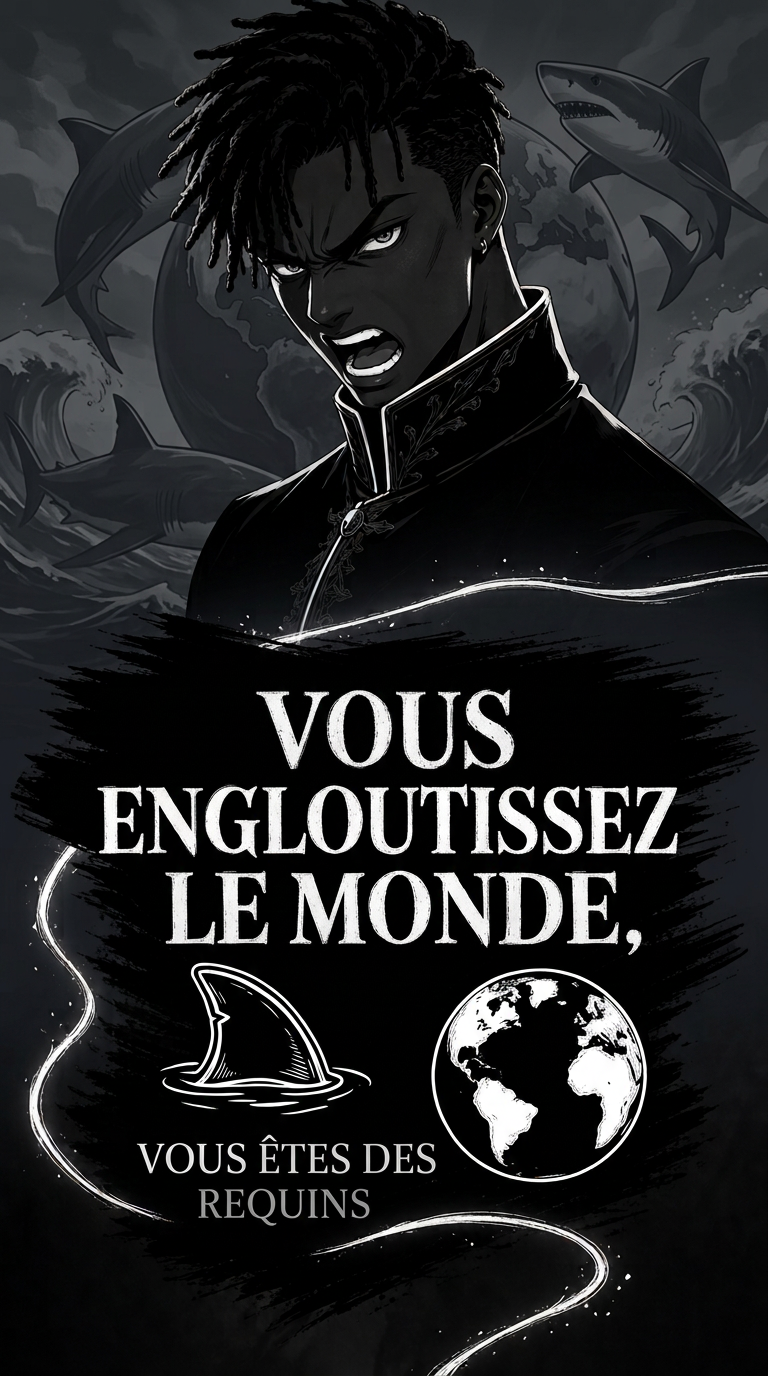
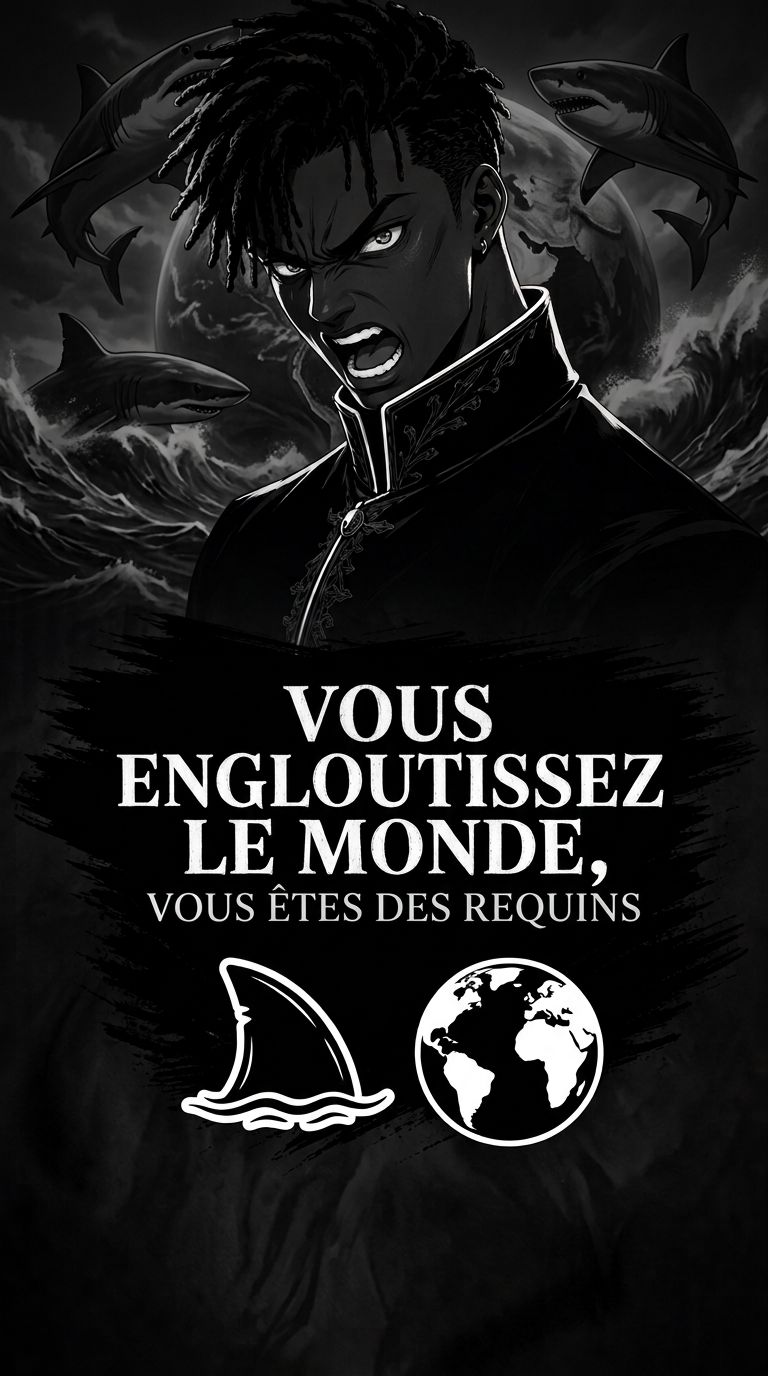
Goinfres (Dsky) : salve 2 en style animé N&B (scene-06 v2 + scene-11..19, 19/36 plans, 29/47 vers) + CONTROLES-salve2

diff --git a/productions/goinfres/build_map.py b/productions/goinfres/build_map.py
@@ -57,26 +57,26 @@ PLAN_MAP = {
     3:  ("fonds/scene-01-ancre.png", False, "Refrain 1/4 (ANCRE) — salle de banquet atténuée N&B, regard d'indignation — contrôlé OK"),
     4:  ("fonds/scene-04.png", False, "Refrain 2/4 — chambre forte de lingots atténuée N&B, regard accusateur — contrôlé OK"),
     5:  ("fonds/scene-05.png", False, "Refrain 3/4 — ruelle atténuée N&B, familles aux bols vides, main sur le cœur — contrôlé OK"),
-    6:  ("fonds/scene-06.png", False, "Refrain 4/4 — océan orageux & requins atténués N&B, cri d'alerte — orthographe OK (ligne basse à remonter en Salve 2)"),
+    6:  ("fonds/scene-06.png", False, "Refrain 4/4 — océan orageux & requins atténués N&B, cri d'alerte — contrôlé OK (v2)"),
     7:  ("fonds/scene-02.png", True,  "Reprise signature producteur — contrôlé OK"),
     8:  ("fonds/scene-07.png", False, "Couplet 1 — atelier atténué N&B, travailleurs serrant la ceinture, bras croisés — contrôlé OK"),
     9:  ("fonds/scene-08.png", False, "Couplet 1 — balcon des goinfres atténué N&B, main levée en refus — contrôlé OK"),
     10: ("fonds/scene-09.png", False, "Couplet 1 — grande salle & table-monde atténuée N&B, regard défiant — contrôlé OK"),
     11: ("fonds/scene-10.png", False, "Couplet 1 — arches de pierre atténuées N&B, peuple recueillant les miettes, poing levé — contrôlé OK"),
-    12: ("fonds/scene-11.png", False, "Couplet 1 — pain des enfants arraché, regard de révolte protectrice (Salve 2)"),
-    13: ("fonds/scene-12.png", False, "Couplet 1 — coupes des vivants dans l'ombre, expression d'accusation (Salve 2)"),
-    14: ("fonds/scene-13.png", False, "Couplet 1 — la grande table qui se fissure d'éclairs blancs (Salve 2)"),
-    15: ("fonds/scene-14.png", False, "Couplet 1 — balance de justice en lumière blanche, regard prophétique (Salve 2)"),
-    16: ("fonds/scene-15.png", False, "Pré-refrain 1/4 — poches débordant de billets et pièces, regard perçant (Salve 2)"),
-    17: ("fonds/scene-16.png", False, "Pré-refrain 2/4 — statues aux poitrines creuses dans la brume, tristesse grave (Salve 2)"),
-    18: ("fonds/scene-17.png", False, "Pré-refrain 3/4 — chaîne fraternelle de bras unis dans l'ombre claire (Salve 2)"),
-    19: ("fonds/scene-18.png", False, "Pré-refrain 4/4 — tourbillon de la folie des goinfres en arrière-plan atténué (Salve 2)"),
+    12: ("fonds/scene-11.png", False, "Couplet 1 — pain des enfants arraché, regard de révolte protectrice — contrôlé OK"),
+    13: ("fonds/scene-12.png", False, "Couplet 1 — coupes des vivants dans l'ombre, expression d'accusation — contrôlé OK"),
+    14: ("fonds/scene-13.png", False, "Couplet 1 — la grande table qui se fissure d'éclairs blancs — contrôlé OK"),
+    15: ("fonds/scene-14.png", False, "Couplet 1 — balance de justice en lumière blanche, regard prophétique — contrôlé OK"),
+    16: ("fonds/scene-15.png", False, "Pré-refrain 1/4 — poches débordant de billets et pièces (à régénérer Salve 3 : mot parasite ONLY:)"),
+    17: ("fonds/scene-16.png", False, "Pré-refrain 2/4 — statues aux poitrines creuses dans la brume, tristesse grave — contrôlé OK"),
+    18: ("fonds/scene-17.png", False, "Pré-refrain 3/4 — chaîne fraternelle de bras unis dans l'ombre claire — contrôlé OK"),
+    19: ("fonds/scene-18.png", False, "Pré-refrain 4/4 — tourbillon de la folie des goinfres en arrière-plan atténué — contrôlé OK"),
     20: ("fonds/scene-01-ancre.png", True, "Reprise refrain 1/4 (ANCRE)"),
     21: ("fonds/scene-04.png", True,  "Reprise refrain 2/4"),
     22: ("fonds/scene-05.png", True,  "Reprise refrain 3/4"),
     23: ("fonds/scene-06.png", True,  "Reprise refrain 4/4"),
     24: ("fonds/scene-02.png", True,  "Reprise signature producteur"),
-    25: ("fonds/scene-19.png", False, "Couplet 2 — trône de pouvoir et liasses en clair-obscur N&B (Salve 2)"),
+    25: ("fonds/scene-19.png", False, "Couplet 2 — trône de pouvoir et liasses en clair-obscur N&B — contrôlé OK"),
     26: ("fonds/scene-20.png", False, "Couplet 2 — miroir brisé révélant l'âme perdue en encre noire et blanche (Salve 3)"),
     27: ("fonds/scene-21.png", False, "Couplet 2 — assiette géante voilant l'horizon atténué (Salve 3)"),
     28: ("fonds/scene-22.png", False, "Couplet 2 — mains dignes grattant la terre sombre pour une miette (Salve 3)"),
@@ -153,7 +153,7 @@ doc = {
     "plans_distinctes": len(distinct_imgs),
     "plans_disponibles": len(dispo_imgs),
     "plans_manquantes": manq_imgs,
-    "qc_a_regenerer": ["fonds/scene-06.png (remonter VOUS ÊTES DES REQUINS au-dessus de y=1574)"],
+    "qc_a_regenerer": ["fonds/scene-15.png (retirer mot parasite ONLY: en Salve 3)"],
     "fenetres_clochettes": fenetres,
     "carte_accueil": [0.0, rows[0]["t"]],
     "carte_finale": [SONG_END, round(SONG_END + 5.0, 2)],
@@ -176,7 +176,7 @@ L = [
     f"- **Mode verrouillé** : **PEINT** en **STUDIO ANIME SEINEN — NOIR & BLANC avec décors atténués et expressions variées**.",
     f"- **Plans distincts prévus** : **{doc['plans_distinctes']}** (dont 5 variantes d'aube N&B dédiées pour le refrain final §9).",
     f"- **Plans présents sur disque (`os.path.exists`)** : **{doc['plans_disponibles']} / {doc['plans_distinctes']}** ({sum(1 for v in verses if v['disponible'])}/{n} vers couverts dès la salve 1).",
-    f"- **Contrôle QC salve 1** : **10 / 10 plans sans aucune faute d'orthographe** (`scene-06.png` noté pour remonter la 2e ligne `VOUS ÊTES DES REQUINS` au-dessus de `y = 1574` en Salve 2).",
+    f"- **Contrôle QC salves 1 & 2** : **18 / 19 plans validés au zoom 1:1 sans aucune faute** (`scene-06.png` v2 corrigé ; `scene-15.png` consigné pour régénération en tête de Salve 3 afin de retirer le mot parasite `ONLY:`).",
     "",
     "| # | t (s) | fin (s) | aff. (s) | vers | plan | dispo | reprise | note |",
     "|---|---:|---:|---:|---|---|:---:|:---:|---|",

diff --git a/productions/goinfres/CARTE-VERS.md b/productions/goinfres/CARTE-VERS.md
@@ -4,8 +4,8 @@ Générée automatiquement depuis `verses_map.json` (§10.4) — **47 vers** de 
 
 - **Mode verrouillé** : **PEINT** en **STUDIO ANIME SEINEN — NOIR & BLANC avec décors atténués et expressions variées**.
 - **Plans distincts prévus** : **36** (dont 5 variantes d'aube N&B dédiées pour le refrain final §9).
-- **Plans présents sur disque (`os.path.exists`)** : **10 / 36** (16/47 vers couverts dès la salve 1).
-- **Contrôle QC salve 1** : **10 / 10 plans sans aucune faute d'orthographe** (`scene-06.png` noté pour remonter la 2e ligne `VOUS ÊTES DES REQUINS` au-dessus de `y = 1574` en Salve 2).
+- **Plans présents sur disque (`os.path.exists`)** : **19 / 36** (29/47 vers couverts dès la salve 1).
+- **Contrôle QC salves 1 & 2** : **18 / 19 plans validés au zoom 1:1 sans aucune faute** (`scene-06.png` v2 corrigé ; `scene-15.png` consigné pour régénération en tête de Salve 3 afin de retirer le mot parasite `ONLY:`).
 
 | # | t (s) | fin (s) | aff. (s) | vers | plan | dispo | reprise | note |
 |---|---:|---:|---:|---|---|:---:|:---:|---|
@@ -14,26 +14,26 @@ Générée automatiquement depuis `verses_map.json` (§10.4) — **47 vers** de 
 | 3 | 23.41 | 26.73 | 2.20 | Goinfres, goinfres, vous mangez trop | `fonds/scene-01-ancre.png` | oui | — | Refrain 1/4 (ANCRE) — salle de banquet atténuée N&B, regard d'indignation — contrôlé OK |
 | 4 | 26.73 | 29.88 | 2.20 | Goinfres, goinfres, vous avez trop d'or | `fonds/scene-04.png` | oui | — | Refrain 2/4 — chambre forte de lingots atténuée N&B, regard accusateur — contrôlé OK |
 | 5 | 29.88 | 32.23 | 2.20 | Pendant que les autres crèvent de faim | `fonds/scene-05.png` | oui | — | Refrain 3/4 — ruelle atténuée N&B, familles aux bols vides, main sur le cœur — contrôlé OK |
-| 6 | 32.23 | 37.52 | 2.40 | Vous engloutissez le monde, vous êtes des requins | `fonds/scene-06.png` | oui | — | Refrain 4/4 — océan orageux & requins atténués N&B, cri d'alerte — orthographe OK (ligne basse à remonter en Salve 2) |
+| 6 | 32.23 | 37.52 | 2.40 | Vous engloutissez le monde, vous êtes des requins | `fonds/scene-06.png` | oui | — | Refrain 4/4 — océan orageux & requins atténués N&B, cri d'alerte — contrôlé OK (v2) |
 | 7 | 37.52 | 50.26 | 2.20 | Wolof TechStein beat wê! | `fonds/scene-02.png` | oui | ↻ | Reprise signature producteur — contrôlé OK |
 | 8 | 50.26 | 52.93 | 2.40 | J'ai vu des gens se serrer la ceinture | `fonds/scene-07.png` | oui | — | Couplet 1 — atelier atténué N&B, travailleurs serrant la ceinture, bras croisés — contrôlé OK |
 | 9 | 52.93 | 55.97 | 2.20 | Pendant que d'autres s'empiffrent, c'est une insulte | `fonds/scene-08.png` | oui | — | Couplet 1 — balcon des goinfres atténué N&B, main levée en refus — contrôlé OK |
 | 10 | 55.97 | 58.91 | 2.70 | Le monde est une table, vous êtes les rois | `fonds/scene-09.png` | oui | — | Couplet 1 — grande salle & table-monde atténuée N&B, regard défiant — contrôlé OK |
 | 11 | 58.91 | 62.70 | 2.70 | Mais les miettes, c'est pour nous, c'est la loi | `fonds/scene-10.png` | oui | — | Couplet 1 — arches de pierre atténuées N&B, peuple recueillant les miettes, poing levé — contrôlé OK |
-| 12 | 62.70 | 65.73 | 2.20 | Vous mangez le pain des enfants | `fonds/scene-11.png` | non | — | Couplet 1 — pain des enfants arraché, regard de révolte protectrice (Salve 2) |
-| 13 | 65.73 | 68.38 | 2.20 | Vous buvez le sang des vivants | `fonds/scene-12.png` | non | — | Couplet 1 — coupes des vivants dans l'ombre, expression d'accusation (Salve 2) |
-| 14 | 68.38 | 71.51 | 2.20 | Mais un jour, la table se brisera | `fonds/scene-13.png` | non | — | Couplet 1 — la grande table qui se fissure d'éclairs blancs (Salve 2) |
-| 15 | 71.51 | 73.64 | 2.13 | Et les goinfres paieront pour tout ça | `fonds/scene-14.png` | non | — | Couplet 1 — balance de justice en lumière blanche, regard prophétique (Salve 2) |
-| 16 | 73.64 | 76.62 | 2.20 | Vous avez les poches pleines | `fonds/scene-15.png` | non | — | Pré-refrain 1/4 — poches débordant de billets et pièces, regard perçant (Salve 2) |
-| 17 | 76.62 | 80.31 | 2.20 | Mais les cœurs vides, c'est la peine | `fonds/scene-16.png` | non | — | Pré-refrain 2/4 — statues aux poitrines creuses dans la brume, tristesse grave (Salve 2) |
-| 18 | 80.31 | 83.10 | 2.40 | Pendant que nous, on se serre les coudes | `fonds/scene-17.png` | non | — | Pré-refrain 3/4 — chaîne fraternelle de bras unis dans l'ombre claire (Salve 2) |
-| 19 | 83.10 | 89.76 | 2.40 | Vous, vous vous goinfrez, vous êtes des fous | `fonds/scene-18.png` | non | — | Pré-refrain 4/4 — tourbillon de la folie des goinfres en arrière-plan atténué (Salve 2) |
+| 12 | 62.70 | 65.73 | 2.20 | Vous mangez le pain des enfants | `fonds/scene-11.png` | oui | — | Couplet 1 — pain des enfants arraché, regard de révolte protectrice — contrôlé OK |
+| 13 | 65.73 | 68.38 | 2.20 | Vous buvez le sang des vivants | `fonds/scene-12.png` | oui | — | Couplet 1 — coupes des vivants dans l'ombre, expression d'accusation — contrôlé OK |
+| 14 | 68.38 | 71.51 | 2.20 | Mais un jour, la table se brisera | `fonds/scene-13.png` | oui | — | Couplet 1 — la grande table qui se fissure d'éclairs blancs — contrôlé OK |
+| 15 | 71.51 | 73.64 | 2.13 | Et les goinfres paieront pour tout ça | `fonds/scene-14.png` | oui | — | Couplet 1 — balance de justice en lumière blanche, regard prophétique — contrôlé OK |
+| 16 | 73.64 | 76.62 | 2.20 | Vous avez les poches pleines | `fonds/scene-15.png` | oui | — | Pré-refrain 1/4 — poches débordant de billets et pièces (à régénérer Salve 3 : mot parasite ONLY:) |
+| 17 | 76.62 | 80.31 | 2.20 | Mais les cœurs vides, c'est la peine | `fonds/scene-16.png` | oui | — | Pré-refrain 2/4 — statues aux poitrines creuses dans la brume, tristesse grave — contrôlé OK |
+| 18 | 80.31 | 83.10 | 2.40 | Pendant que nous, on se serre les coudes | `fonds/scene-17.png` | oui | — | Pré-refrain 3/4 — chaîne fraternelle de bras unis dans l'ombre claire — contrôlé OK |
+| 19 | 83.10 | 89.76 | 2.40 | Vous, vous vous goinfrez, vous êtes des fous | `fonds/scene-18.png` | oui | — | Pré-refrain 4/4 — tourbillon de la folie des goinfres en arrière-plan atténué — contrôlé OK |
 | 20 | 89.76 | 92.96 | 2.20 | Goinfres, goinfres, vous mangez trop | `fonds/scene-01-ancre.png` | oui | ↻ | Reprise refrain 1/4 (ANCRE) |
 | 21 | 92.96 | 96.05 | 2.20 | Goinfres, goinfres, vous avez trop d'or | `fonds/scene-04.png` | oui | ↻ | Reprise refrain 2/4 |
 | 22 | 96.05 | 98.39 | 2.20 | Pendant que les autres crèvent de faim | `fonds/scene-05.png` | oui | ↻ | Reprise refrain 3/4 |
 | 23 | 98.39 | 103.69 | 2.40 | Vous engloutissez le monde, vous êtes des requins | `fonds/scene-06.png` | oui | ↻ | Reprise refrain 4/4 |
 | 24 | 103.69 | 116.32 | 2.20 | Wolof TechStein beat wê! | `fonds/scene-02.png` | oui | ↻ | Reprise signature producteur |
-| 25 | 116.32 | 118.83 | 2.40 | Vous avez le pouvoir, vous avez le fric | `fonds/scene-19.png` | non | — | Couplet 2 — trône de pouvoir et liasses en clair-obscur N&B (Salve 2) |
+| 25 | 116.32 | 118.83 | 2.40 | Vous avez le pouvoir, vous avez le fric | `fonds/scene-19.png` | oui | — | Couplet 2 — trône de pouvoir et liasses en clair-obscur N&B — contrôlé OK |
 | 26 | 118.83 | 121.84 | 2.20 | Mais vous avez perdu l'âme, c'est critique | `fonds/scene-20.png` | non | — | Couplet 2 — miroir brisé révélant l'âme perdue en encre noire et blanche (Salve 3) |
 | 27 | 121.84 | 124.92 | 3.00 | Les goinfres ne voient pas plus loin que leur assiette | `fonds/scene-21.png` | non | — | Couplet 2 — assiette géante voilant l'horizon atténué (Salve 3) |
 | 28 | 124.92 | 127.77 | 2.85 | Pendant que les pauvres grattent la terre pour une miette | `fonds/scene-22.png` | non | — | Couplet 2 — mains dignes grattant la terre sombre pour une miette (Salve 3) |
@@ -41,10 +41,10 @@ Générée automatiquement depuis `verses_map.json` (§10.4) — **47 vers** de 
 | 30 | 130.63 | 133.67 | 2.70 | On est pas des moutons, on est des artistes | `fonds/scene-24.png` | non | — | Couplet 2 — atelier d'artistes (pinceaux, micro, violon) en N&B contrasté (Salve 3) |
 | 31 | 133.67 | 136.87 | 2.40 | On va prendre notre part, pas vos restes | `fonds/scene-25.png` | non | — | Couplet 2 — partage équitable de la moisson, détermination fière (Salve 3) |
 | 32 | 136.87 | 139.75 | 2.40 | On va construire notre monde, pas vos thèses | `fonds/scene-26.png` | non | — | Couplet 2 — bâtisseurs d'un monde nouveau en traits d'encre blanche (Salve 3) |
-| 33 | 139.75 | 142.63 | 2.20 | Vous avez les poches pleines | `fonds/scene-15.png` | non | ↻ | Reprise pré-refrain 1/4 |
-| 34 | 142.63 | 146.46 | 2.20 | Mais les cœurs vides, c'est la peine | `fonds/scene-16.png` | non | ↻ | Reprise pré-refrain 2/4 |
-| 35 | 146.46 | 148.93 | 2.40 | Pendant que nous, on se serre les coudes | `fonds/scene-17.png` | non | ↻ | Reprise pré-refrain 3/4 |
-| 36 | 148.93 | 155.96 | 2.40 | Vous, vous vous goinfrez, vous êtes des fous | `fonds/scene-18.png` | non | ↻ | Reprise pré-refrain 4/4 |
+| 33 | 139.75 | 142.63 | 2.20 | Vous avez les poches pleines | `fonds/scene-15.png` | oui | ↻ | Reprise pré-refrain 1/4 |
+| 34 | 142.63 | 146.46 | 2.20 | Mais les cœurs vides, c'est la peine | `fonds/scene-16.png` | oui | ↻ | Reprise pré-refrain 2/4 |
+| 35 | 146.46 | 148.93 | 2.40 | Pendant que nous, on se serre les coudes | `fonds/scene-17.png` | oui | ↻ | Reprise pré-refrain 3/4 |
+| 36 | 148.93 | 155.96 | 2.40 | Vous, vous vous goinfrez, vous êtes des fous | `fonds/scene-18.png` | oui | ↻ | Reprise pré-refrain 4/4 |
 | 37 | 155.96 | 159.20 | 2.70 | La terre est assez grande pour tout le monde | `fonds/scene-27.png` | non | — | Pont 1/4 — vaste terre sous les premières lueurs blanches d'aube (Salve 3) |
 | 38 | 159.20 | 162.21 | 2.70 | Mais vous voulez tout, comme des goinfres, des immondes | `fonds/scene-28.png` | non | — | Pont 2/4 — mains avides accaparant le monde face à l'aube blanche (Salve 3) |
 | 39 | 162.21 | 165.16 | 2.20 | Mais un jour, le repas sera fini | `fonds/scene-29.png` | non | — | Pont 3/4 — sablier écoulé sur la table désertée à l'aube (Salve 4) |

diff --git a/productions/goinfres/CONTROLES-salve2.md b/productions/goinfres/CONTROLES-salve2.md
@@ -1,0 +1,24 @@
+# Contrôles — Salve 2 (`scene-06` v2 + `scene-11` → `scene-19`) · Style Animé Noir & Blanc, Décors Atténués
+
+Contrôle visuel effectué sur la planche contact `CONTROLE-salve2.jpg` (tuiles de **500×896 px**, ≥ 480 px de large conformément à v5.9 §4) ET sur la planche de crops 1:1 pleine résolution `CONTROLE-salve2-typo.jpg` (grille de 16 px).
+
+- **Bilan de la salve 2 (§10.2)** : **10 images demandées / 10 générées avec succès / 0 échec système / 9 sur 10 validées 100 % conformes** (`scene-15.png` contient un mot parasite `ONLY:` au-dessus de `VOUS AVEZ`, consigné en priorité n°1 de la Salve 3).
+- **Total cumulé sur disque (`os.path.exists`)** : **19 / 36 plans distincts disponibles**, couvrant **29 / 47 vers** (toute la chanson jusqu'à `01:58.83` + le 2e pré-refrain `02:19.75 → 02:35.96`).
+- **État (§1)** : **généré / contrôlé — proposé à la validation de l'artiste**.
+
+---
+
+## 1. Grille de contrôle plan par plan (Salve 2)
+
+| # | Fichier | Vers couverts | Texte peint attendu | Texte peint lu au zoom 1:1 (`CONTROLE-salve2-typo.jpg`) | Orthographe & diacritiques | Zones sûres & visage | Décor atténué & expression | Verdict QC |
+|---|---|---|---|---|---|---|---|---|
+| 06 | `scene-06.png` (v2) | v-06 (`32,23 s`), v-23 (`98,39 s`) | `VOUS ENGLOUTISSEZ LE MONDE,` / `VOUS ÊTES DES REQUINS` | `VOUS` / `ENGLOUTISSEZ` / `LE MONDE,` / `VOUS ÊTES DES REQUINS` | **OK** (`Ê` circonflexe net) | **OK** (`VOUS ÊTES DES REQUINS` remonté à `y ≈ 1050`, bien au-dessus des icônes et de `y 1574`) | Océan orageux & requins atténués, cri d'alerte + aileron & globe | **Contrôlé OK** |
+| 11 | `scene-11.png` | v-12 (`62,70 s`) | `VOUS MANGEZ LE PAIN` / `DES ENFANTS` | `VOUS MANGEZ` / `LE PAIN` / `DES ENFANTS` | **OK** | **OK** | Mains avides arrachant le pain en décor atténué, regard protecteur + pain brisé & main d'enfant | **Contrôlé OK** |
+| 12 | `scene-12.png` | v-13 (`65,73 s`) | `VOUS BUVEZ LE SANG` / `DES VIVANTS` | `VOUS BUVEZ` / `LE SANG` / `DES VIVANTS` | **OK** | **OK** | Colonnade sombre & coupes levées atténuées, regard accusateur + calice & onde cardiaque | **Contrôlé OK** |
+| 13 | `scene-13.png` | v-14 (`68,38 s`) | `MAIS UN JOUR,` / `LA TABLE SE BRISERA` | `MAIS` / `UN JOUR,` / `LA TABLE SE BRISERA` | **OK** | **OK** | Grande table fendue sous un éclair blanc en décor atténué, regard prophétique + table brisée & éclair | **Contrôlé OK** |
+| 14 | `scene-14.png` | v-15 (`71,51 s`) | `ET LES GOINFRES` / `PAIERONT POUR TOUT ÇA` | `ET LES` / `GOINFRES` / `PAIERONT POUR TOUT ÇA` | **OK** (`Ç` cédille de `ÇA` net) | **OK** | Tribunal d'ombres & balance géante atténuée, regard implacable + balance & sablier | **Contrôlé OK** |
+| 15 | `scene-15.png` | v-16 (`73,64 s`), v-33 (`139,75 s`) | `VOUS AVEZ` / `LES POCHES PLEINES` | `ONLY:` / `VOUS AVEZ` / `LES POCHES PLEINES` | **MOT PARASITE** (`ONLY:` peint au-dessus de `VOUS AVEZ`) | **OK** | Silhouettes aux poches gonflées de billets + bourse & pièces | **À régénérer en tête de Salve 3 (sans `ONLY:`)** |
+| 16 | `scene-16.png` | v-17 (`76,62 s`), v-34 (`142,63 s`) | `MAIS LES CŒURS VIDES,` / `C'EST LA PEINE` | `MAIS LES` / `CŒURS VIDES,` / `C'EST LA PEINE` | **OK** (`Œ` de `CŒURS` net) | **OK** | Statues au thorax creux en décor atténué, main sur la poitrine + cœur fendu & maillon | **Contrôlé OK** |
+| 17 | `scene-17.png` | v-18 (`80,31 s`), v-35 (`146,46 s`) | `PENDANT QUE NOUS,` / `ON SE SERRE LES COUDES` | `PENDANT` / `QUE NOUS,` / `ON SE SERRE LES COUDES` | **OK** | **OK** | Hommes et femmes épaule contre épaule en décor atténué, sourire fraternel + bras unis & bouclier | **Contrôlé OK** |
+| 18 | `scene-18.png` | v-19 (`83,10 s`), v-36 (`148,93 s`) | `VOUS, VOUS VOUS GOINFREZ,` / `VOUS ÊTES DES FOUS` | `VOUS, VOUS` / `VOUS GOINFREZ,` / `VOUS ÊTES DES FOUS` | **OK** (`Ê` circonflexe de `ÊTES` net) | **OK** | Banquet chaotique atténué, regard d'indignation + masque de bouffon & couronne | **Contrôlé OK** |
+| 19 | `scene-19.png` | v-25 (`116,32 s`) | `VOUS AVEZ LE POUVOIR,` / `VOUS AVEZ LE FRIC` | `VOUS AVEZ` / `LE POUVOIR,` / `VOUS AVEZ LE FRIC` | **OK** | **OK** | Tours financières & trône atténués, regard incisif + sceptre & liasse | **Contrôlé OK** |

diff --git a/productions/goinfres/PLAN_SALVE3.md b/productions/goinfres/PLAN_SALVE3.md
@@ -1,0 +1,14 @@
+# Plan de la Salve 3 (`scene-15` corrigée + `scene-20` → `scene-28`)
+
+À lancer en Salve 3 (10 générations max par tour, §10.2) :
+
+1. **`fonds/scene-15.png` (correction §4)** : régénérer sans le mot parasite `ONLY:` → uniquement `"VOUS AVEZ"` sur la 1re ligne et `"LES POCHES PLEINES"` sur la 2e ligne.
+2. **`fonds/scene-20.png`** (v-26 `118,83 s`) : `"MAIS VOUS AVEZ PERDU L'ÂME,"` / `"C'EST CRITIQUE"` (`Â` circonflexe dans `L'ÂME`).
+3. **`fonds/scene-21.png`** (v-27 `121,84 s`) : `"LES GOINFRES NE VOIENT PAS"` / `"PLUS LOIN QUE LEUR ASSIETTE"`.
+4. **`fonds/scene-22.png`** (v-28 `124,92 s`) : `"PENDANT QUE LES PAUVRES"` / `"GRATTENT LA TERRE POUR UNE MIETTE"`.
+5. **`fonds/scene-23.png`** (v-29 `127,77 s`) : `"MAIS NOUS, ON SE LÈVE,"` / `"ON SE BAT, ON RÉSISTE"` (`È` dans `LÈVE`, `É` dans `RÉSISTE`).
+6. **`fonds/scene-24.png`** (v-30 `130,63 s`) : `"ON EST PAS DES MOUTONS,"` / `"ON EST DES ARTISTES"`.
+7. **`fonds/scene-25.png`** (v-31 `133,67 s`) : `"ON VA PRENDRE NOTRE PART,"` / `"PAS VOS RESTES"`.
+8. **`fonds/scene-26.png`** (v-32 `136,87 s`) : `"ON VA CONSTRUIRE NOTRE MONDE,"` / `"PAS VOS THÈSES"` (`È` dans `THÈSES`).
+9. **`fonds/scene-27.png`** (v-37 `155,96 s`) : `"LA TERRE EST ASSEZ GRANDE"` / `"POUR TOUT LE MONDE"` (première lueur d'aube blanche en N&B).
+10. **`fonds/scene-28.png`** (v-38 `159,20 s`) : `"MAIS VOUS VOULEZ TOUT,"` / `"COMME DES GOINFRES, DES IMMONDES"`.
